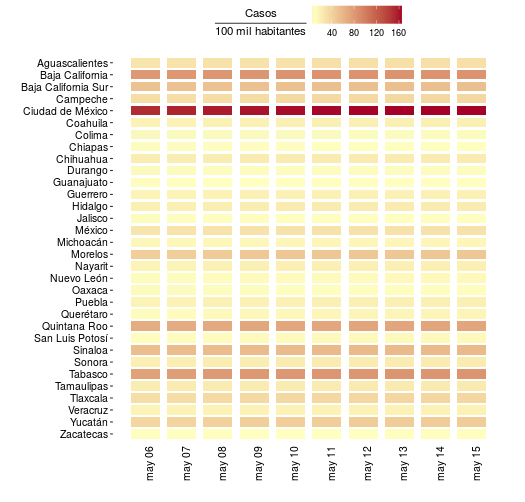
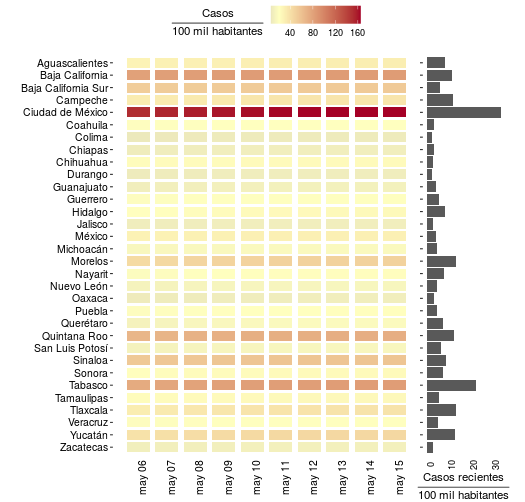
Mejorando situación en los estados

diff --git a/estados/index.html b/estados/index.html
@@ -328,7 +328,9 @@
           <div class="col-12 col-md-6 my-auto my-auto">
             <h3>Situación en los estados</h3>
             <p class="lead">
-              <p>Los lugares con más población siempre tienen más casos y por lo tanto el número total de casos no refleja la fase de la epidemia. En cambio, la cantidad de casos normalizada por población es un mejor indicador de qué tanto ha penetrado la epidemia en una región. Además, los casos normalmente se registran días después de que los pacientes muestran síntomas.</p> <p>Esta gráfica muestra el número de casos que mostraron síntomas por cada 100 mil habitantes (proyección de la CONAPO para 2020) en los 10 últimos días en las 32 entidades federativas del país.</p>
+              <p>Los lugares con más población siempre tienen más casos y por lo tanto el número total de casos no refleja la fase de la epidemia. En cambio, la cantidad de casos normalizada por población es un mejor indicador de qué tanto ha penetrado la epidemia en una región.</p>
+<p>Esta gráfica muestra, para los últimos 10 días, el número de casos acumulados (basado en la fecha de inicio de síntomas) por cada 100 mil habitantes (proyección de la CONAPO para 2020) en las 32 entidades federativas del país.</p>
+<p>Desde el punto de vista de riesgo de contagio, los casos recientes son más importantes porque indican la cantidad de gente que es contagiosa. La parte derecha de la imagen también muestra el número de casos en los últimos 14 días (recientes) por cada 100 mil habitantes para cada estado.</p>
             </p>
               
           </div>

diff --git a/etiquetas/estados/index.html b/etiquetas/estados/index.html
@@ -328,7 +328,9 @@
           <div class="col-12 col-md-6 my-auto my-auto">
             <h3>Situación en los estados</h3>
             <p class="lead">
-              <p>Los lugares con más población siempre tienen más casos y por lo tanto el número total de casos no refleja la fase de la epidemia. En cambio, la cantidad de casos normalizada por población es un mejor indicador de qué tanto ha penetrado la epidemia en una región. Además, los casos normalmente se registran días después de que los pacientes muestran síntomas.</p> <p>Esta gráfica muestra el número de casos que mostraron síntomas por cada 100 mil habitantes (proyección de la CONAPO para 2020) en los 10 últimos días en las 32 entidades federativas del país.</p>
+              <p>Los lugares con más población siempre tienen más casos y por lo tanto el número total de casos no refleja la fase de la epidemia. En cambio, la cantidad de casos normalizada por población es un mejor indicador de qué tanto ha penetrado la epidemia en una región.</p>
+<p>Esta gráfica muestra, para los últimos 10 días, el número de casos acumulados (basado en la fecha de inicio de síntomas) por cada 100 mil habitantes (proyección de la CONAPO para 2020) en las 32 entidades federativas del país.</p>
+<p>Desde el punto de vista de riesgo de contagio, los casos recientes son más importantes porque indican la cantidad de gente que es contagiosa. La parte derecha de la imagen también muestra el número de casos en los últimos 14 días (recientes) por cada 100 mil habitantes para cada estado.</p>
             </p>
               
           </div>

diff --git a/etiquetas/incidencia/index.html b/etiquetas/incidencia/index.html
@@ -328,7 +328,9 @@
           <div class="col-12 col-md-6 my-auto my-auto">
             <h3>Situación en los estados</h3>
             <p class="lead">
-              <p>Los lugares con más población siempre tienen más casos y por lo tanto el número total de casos no refleja la fase de la epidemia. En cambio, la cantidad de casos normalizada por población es un mejor indicador de qué tanto ha penetrado la epidemia en una región. Además, los casos normalmente se registran días después de que los pacientes muestran síntomas.</p> <p>Esta gráfica muestra el número de casos que mostraron síntomas por cada 100 mil habitantes (proyección de la CONAPO para 2020) en los 10 últimos días en las 32 entidades federativas del país.</p>
+              <p>Los lugares con más población siempre tienen más casos y por lo tanto el número total de casos no refleja la fase de la epidemia. En cambio, la cantidad de casos normalizada por población es un mejor indicador de qué tanto ha penetrado la epidemia en una región.</p>
+<p>Esta gráfica muestra, para los últimos 10 días, el número de casos acumulados (basado en la fecha de inicio de síntomas) por cada 100 mil habitantes (proyección de la CONAPO para 2020) en las 32 entidades federativas del país.</p>
+<p>Desde el punto de vista de riesgo de contagio, los casos recientes son más importantes porque indican la cantidad de gente que es contagiosa. La parte derecha de la imagen también muestra el número de casos en los últimos 14 días (recientes) por cada 100 mil habitantes para cada estado.</p>
             </p>
               
           </div>

diff --git a/etiquetas/serie_tiempo/index.html b/etiquetas/serie_tiempo/index.html
@@ -476,7 +476,9 @@
           <div class="col-12 col-md-6 my-auto my-auto">
             <h3>Situación en los estados</h3>
             <p class="lead">
-              <p>Los lugares con más población siempre tienen más casos y por lo tanto el número total de casos no refleja la fase de la epidemia. En cambio, la cantidad de casos normalizada por población es un mejor indicador de qué tanto ha penetrado la epidemia en una región. Además, los casos normalmente se registran días después de que los pacientes muestran síntomas.</p> <p>Esta gráfica muestra el número de casos que mostraron síntomas por cada 100 mil habitantes (proyección de la CONAPO para 2020) en los 10 últimos días en las 32 entidades federativas del país.</p>
+              <p>Los lugares con más población siempre tienen más casos y por lo tanto el número total de casos no refleja la fase de la epidemia. En cambio, la cantidad de casos normalizada por población es un mejor indicador de qué tanto ha penetrado la epidemia en una región.</p>
+<p>Esta gráfica muestra, para los últimos 10 días, el número de casos acumulados (basado en la fecha de inicio de síntomas) por cada 100 mil habitantes (proyección de la CONAPO para 2020) en las 32 entidades federativas del país.</p>
+<p>Desde el punto de vista de riesgo de contagio, los casos recientes son más importantes porque indican la cantidad de gente que es contagiosa. La parte derecha de la imagen también muestra el número de casos en los últimos 14 días (recientes) por cada 100 mil habitantes para cada estado.</p>
             </p>
               
           </div>

diff --git a/index.html b/index.html
@@ -486,7 +486,9 @@
           <div class="col-12 col-md-6 my-auto my-auto">
             <h3>Situación en los estados</h3>
             <p class="lead">
-              <p>Los lugares con más población siempre tienen más casos y por lo tanto el número total de casos no refleja la fase de la epidemia. En cambio, la cantidad de casos normalizada por población es un mejor indicador de qué tanto ha penetrado la epidemia en una región. Además, los casos normalmente se registran días después de que los pacientes muestran síntomas.</p> <p>Esta gráfica muestra el número de casos que mostraron síntomas por cada 100 mil habitantes (proyección de la CONAPO para 2020) en los 10 últimos días en las 32 entidades federativas del país.</p>
+              <p>Los lugares con más población siempre tienen más casos y por lo tanto el número total de casos no refleja la fase de la epidemia. En cambio, la cantidad de casos normalizada por población es un mejor indicador de qué tanto ha penetrado la epidemia en una región.</p>
+<p>Esta gráfica muestra, para los últimos 10 días, el número de casos acumulados (basado en la fecha de inicio de síntomas) por cada 100 mil habitantes (proyección de la CONAPO para 2020) en las 32 entidades federativas del país.</p>
+<p>Desde el punto de vista de riesgo de contagio, los casos recientes son más importantes porque indican la cantidad de gente que es contagiosa. La parte derecha de la imagen también muestra el número de casos en los últimos 14 días (recientes) por cada 100 mil habitantes para cada estado.</p>
             </p>
               
           </div>

diff --git a/secciones/estados/index.html b/secciones/estados/index.html
@@ -328,7 +328,9 @@
           <div class="col-12 col-md-6 my-auto my-auto">
             <h3>Situación en los estados</h3>
             <p class="lead">
-              <p>Los lugares con más población siempre tienen más casos y por lo tanto el número total de casos no refleja la fase de la epidemia. En cambio, la cantidad de casos normalizada por población es un mejor indicador de qué tanto ha penetrado la epidemia en una región. Además, los casos normalmente se registran días después de que los pacientes muestran síntomas.</p> <p>Esta gráfica muestra el número de casos que mostraron síntomas por cada 100 mil habitantes (proyección de la CONAPO para 2020) en los 10 últimos días en las 32 entidades federativas del país.</p>
+              <p>Los lugares con más población siempre tienen más casos y por lo tanto el número total de casos no refleja la fase de la epidemia. En cambio, la cantidad de casos normalizada por población es un mejor indicador de qué tanto ha penetrado la epidemia en una región.</p>
+<p>Esta gráfica muestra, para los últimos 10 días, el número de casos acumulados (basado en la fecha de inicio de síntomas) por cada 100 mil habitantes (proyección de la CONAPO para 2020) en las 32 entidades federativas del país.</p>
+<p>Desde el punto de vista de riesgo de contagio, los casos recientes son más importantes porque indican la cantidad de gente que es contagiosa. La parte derecha de la imagen también muestra el número de casos en los últimos 14 días (recientes) por cada 100 mil habitantes para cada estado.</p>
             </p>
               
           </div>

diff --git a/secciones/principal/index.html b/secciones/principal/index.html
@@ -498,7 +498,9 @@
           <div class="col-12 col-md-6 my-auto my-auto">
             <h3>Situación en los estados</h3>
             <p class="lead">
-              <p>Los lugares con más población siempre tienen más casos y por lo tanto el número total de casos no refleja la fase de la epidemia. En cambio, la cantidad de casos normalizada por población es un mejor indicador de qué tanto ha penetrado la epidemia en una región. Además, los casos normalmente se registran días después de que los pacientes muestran síntomas.</p> <p>Esta gráfica muestra el número de casos que mostraron síntomas por cada 100 mil habitantes (proyección de la CONAPO para 2020) en los 10 últimos días en las 32 entidades federativas del país.</p>
+              <p>Los lugares con más población siempre tienen más casos y por lo tanto el número total de casos no refleja la fase de la epidemia. En cambio, la cantidad de casos normalizada por población es un mejor indicador de qué tanto ha penetrado la epidemia en una región.</p>
+<p>Esta gráfica muestra, para los últimos 10 días, el número de casos acumulados (basado en la fecha de inicio de síntomas) por cada 100 mil habitantes (proyección de la CONAPO para 2020) en las 32 entidades federativas del país.</p>
+<p>Desde el punto de vista de riesgo de contagio, los casos recientes son más importantes porque indican la cantidad de gente que es contagiosa. La parte derecha de la imagen también muestra el número de casos en los últimos 14 días (recientes) por cada 100 mil habitantes para cada estado.</p>
             </p>
               
           </div>

diff --git a/estados/estados_100mil/index.html b/estados/estados_100mil/index.html
@@ -321,7 +321,9 @@
         <div class="col-12 col-md-6 my-auto my-auto">
           <h2>Situación en los estados</h2>
           <p class="lead">
-            <p>Los lugares con más población siempre tienen más casos y por lo tanto el número total de casos no refleja la fase de la epidemia. En cambio, la cantidad de casos normalizada por población es un mejor indicador de qué tanto ha penetrado la epidemia en una región. Además, los casos normalmente se registran días después de que los pacientes muestran síntomas.</p> <p>Esta gráfica muestra el número de casos que mostraron síntomas por cada 100 mil habitantes (proyección de la CONAPO para 2020) en los 10 últimos días en las 32 entidades federativas del país.</p>
+            <p>Los lugares con más población siempre tienen más casos y por lo tanto el número total de casos no refleja la fase de la epidemia. En cambio, la cantidad de casos normalizada por población es un mejor indicador de qué tanto ha penetrado la epidemia en una región.</p>
+<p>Esta gráfica muestra, para los últimos 10 días, el número de casos acumulados (basado en la fecha de inicio de síntomas) por cada 100 mil habitantes (proyección de la CONAPO para 2020) en las 32 entidades federativas del país.</p>
+<p>Desde el punto de vista de riesgo de contagio, los casos recientes son más importantes porque indican la cantidad de gente que es contagiosa. La parte derecha de la imagen también muestra el número de casos en los últimos 14 días (recientes) por cada 100 mil habitantes para cada estado.</p>
           </p>
             
         </div>
